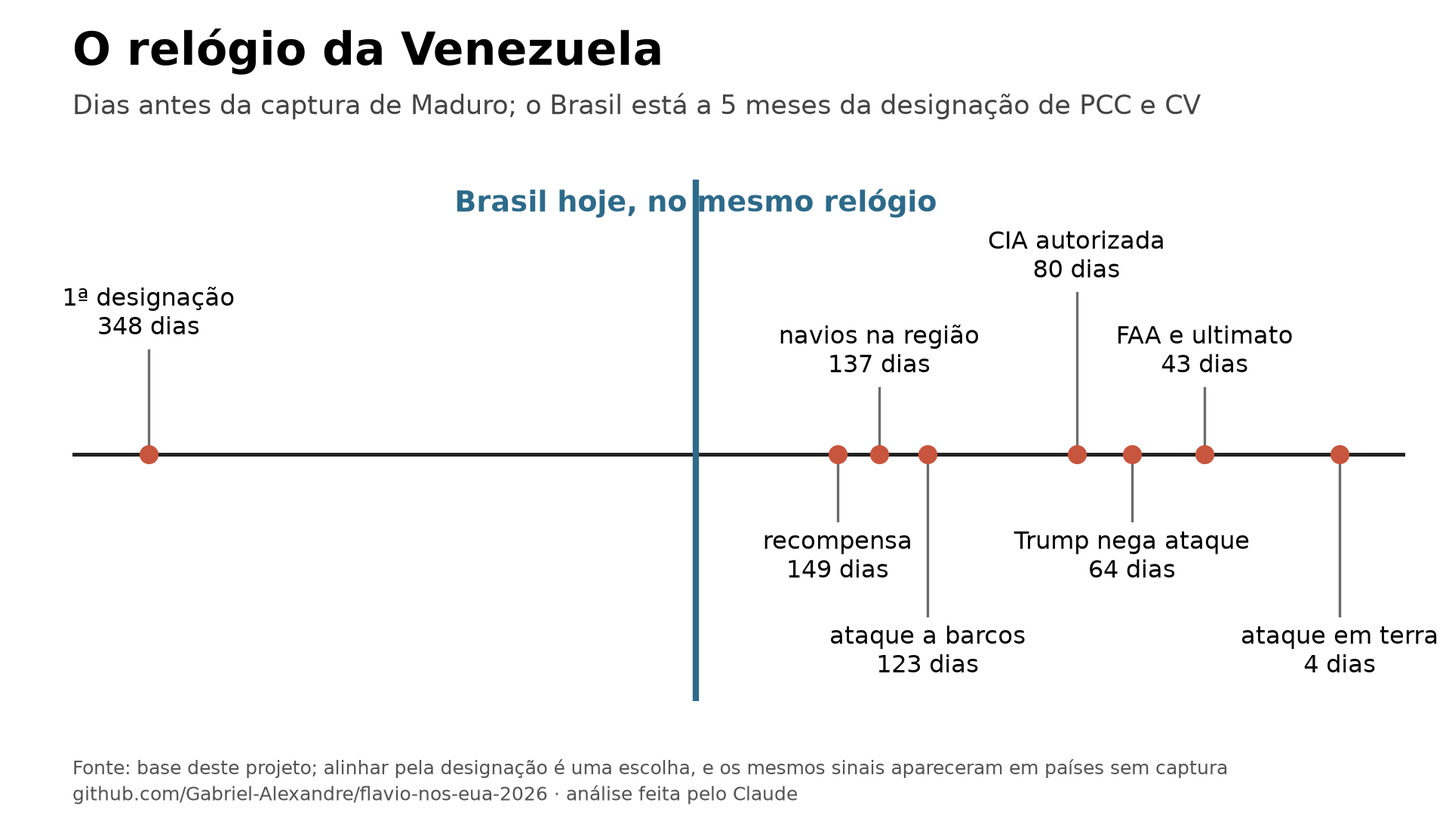
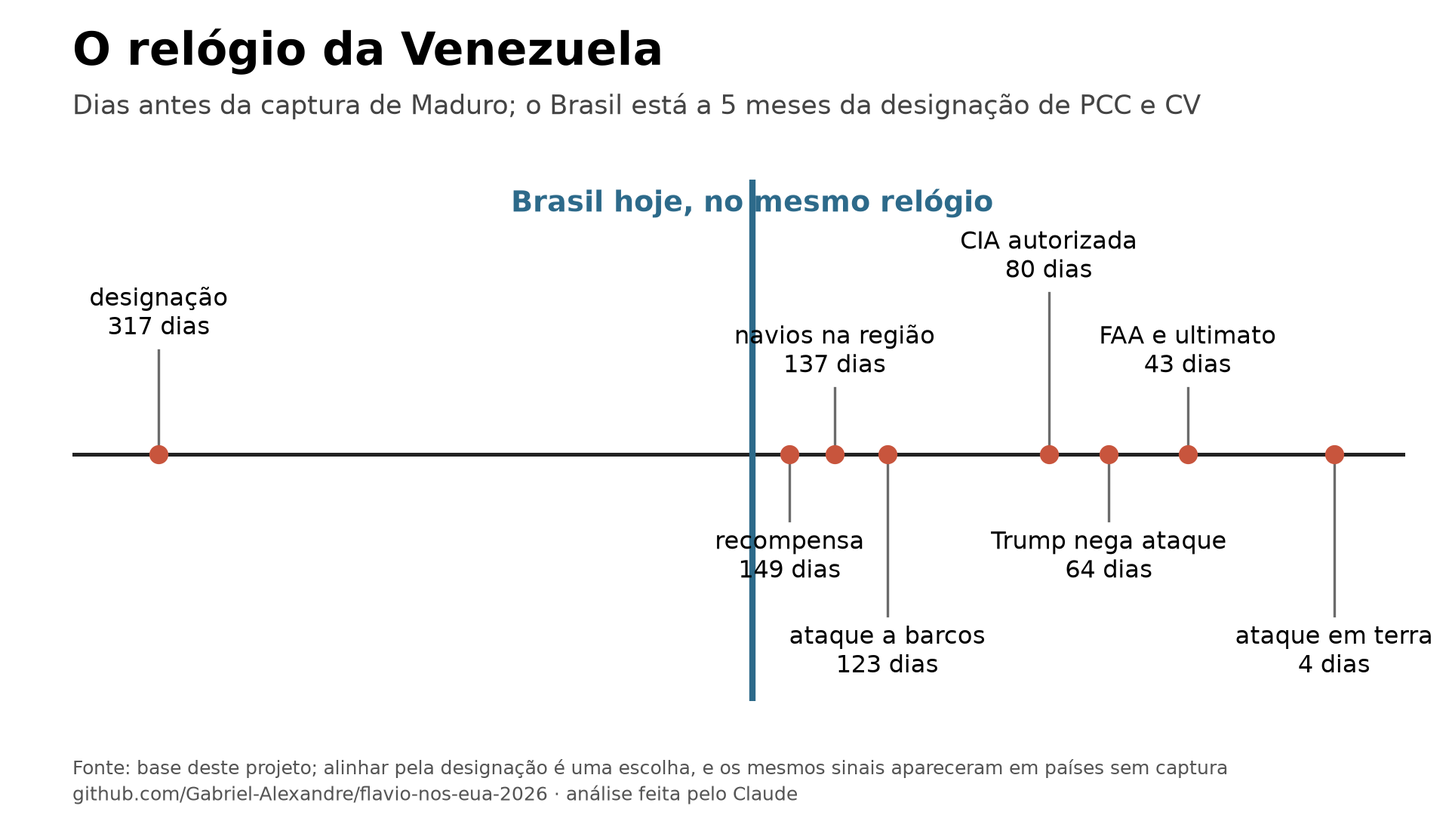
Conferência do roteiro aplicada: Bhutto na conta, relógio só pela designação, contato relatado pela Reuters

Changed region(s): [[0.3125, 0.2139, 0.9062, 0.8556], [0.8438, 0.55, 1.0, 0.825], [0.0625, 0.3361, 0.1562, 0.5806]]

diff --git a/ferramentas/gerar_relatorio.py b/ferramentas/gerar_relatorio.py
@@ -72,12 +72,12 @@ RELATORIO = f"""# Flávio nos EUA: o que esperar
 
 | Pergunta | Resposta |
 |---|---|
-| Os EUA ajudaram? | Os EUA permitiram a entrada: Rubio disse que o presidente decidiu deixar entrar e que ele seria *"paroled into the country, and he was"*. O motivo oficial da parole não foi dito. O jato liga a um assessor de Trump pela Reuters, e por resumos pelo NYT e pelo WSJ. A saída do Brasil não tem prova de participação do governo americano. A Argentina aparece mais na parte física |
+| Os EUA ajudaram? | Os EUA permitiram a entrada: Rubio disse que o presidente decidiu deixar entrar e que ele seria *"paroled into the country, and he was"*. O motivo oficial da parole não foi dito. O jato liga a um assessor de Trump pela Reuters, e por resumos pelo NYT e pelo WSJ. Na saída do Brasil, a Reuters relata, por um funcionário americano, que ele falou com vários funcionários dos EUA no caminho; ajuda do governo americano nesse trecho não tem prova. A Argentina aparece mais na parte física |
 | Ele pediu asilo? | Não há registro. Entrou por parole humanitária. O NYT diz que ele deve pedir residência |
 | Trump apoia? | Abriu a porta e disse *"I won't get involved"*. Sem planos de encontrá-lo, e a Reuters diz que sem planos de apoiar a pretensão dele |
 | Trump falou em fraude de novo? | Sim, várias vezes até 31/10, sem apresentar prova |
 | Volta ao poder por esse caminho? | Dos {E2['eua']['n']} abrigados nos EUA, {E2['eua']['voltou_ao_poder']} chegaram ao poder: um com tropas americanas, um nomeado com apoio americano e um eleito depois de 15 anos. Em até 12 anos, {E2['horizontes_todos'][2]['voltaram']} de {E2['horizontes_todos'][2]['observados']} entre todos, e nenhum por eleição. Flávio fala em voltar antes de 2030 |
-| Os EUA vão invadir? | Tropas sem autorização até 2030: {pct('P01')}. Ataque contra PCC ou CV sem aval: {pct('P02')} até 2027 e {pct('P20')} até o fim do governo Trump. Dos {E5['tipos_de_sinal']} tipos de sinal que vieram antes da captura de Maduro, {E5['sinais_brasil']['existe']} existem hoje, {E5['sinais_brasil']['parcial']} em parte e {E5['sinais_brasil']['nao']} não, e os que existem são os mais antigos da sequência |
+| Os EUA vão invadir? | Tropas sem autorização até 2030: {pct('P01')}. Ataque contra PCC ou CV sem aval: {pct('P02')} até 2027 e {pct('P20')} até o fim do governo Trump. Dos {E5['tipos_de_sinal']} tipos de sinal que vieram antes da captura de Maduro, {E5['sinais_brasil']['existe']} existem hoje, {E5['sinais_brasil']['parcial']} em parte e {E5['sinais_brasil']['nao']} não, e, do começo da sequência, o Brasil tem a designação |
 | O que é mais provável? | **{CE['C1']['cenario']}** ({CE['C1']['com_historia_normalizado']:.0f}%), e alguma medida americana nova até junho de 2027 ({pct('P08')}); sanção nominal a autoridade, {pct('P21')}; banco brasileiro atingido, {pct('P22')} |
 
 ## 2. As 72 horas
@@ -114,9 +114,9 @@ Fontes em `dados/casos/e1_originais.json`, com trechos conferidos, e na pasta do
 
 Só entre quem saiu até 2016, que já teve 10 anos: {rate(E2['maduros'])} no total e {rate(E2['maduros_eua'])} nos EUA. Sem Somoza e o xá, que não foram abrigados de fato: {rate(E2['eua_sem_nao_abrigados'])}. Seguem abertos {len(E2['ainda_abertos'])} casos, entre eles {', '.join(E2['ainda_abertos'][:6])}.
 
-**O grupo volta mais que a pessoa.** Sem o próprio exilado, o grupo político chegou ao poder em {tabela_grupo}. Esses casos não aparecem como volta ao poder porque a pergunta é sobre o exilado.
+**O grupo pode seguir sem a pessoa.** Sem o próprio exilado, o grupo político chegou ao poder em {tabela_grupo}. Esses casos não aparecem como volta ao poder porque a pergunta é sobre o exilado.
 
-**O que a regra escrita antes derrubou.** O plano dizia que a hipótese cairia se aparecessem abrigados nos EUA que voltaram ao poder sem força americana nem colapso. Apareceram: Kim Dae-jung, eleito, e Diem, nomeado. A frase inicial, *"abrigo americano não leva ao poder"*, caiu. Fica uma mais estreita: a porta aberta sozinha não foi caminho em prazo curto. Em até 4 anos só voltaram quem teve tropas americanas ou nomeação com apoio americano; por eleição, levou de 13 a 18 anos.
+**O que a regra escrita antes derrubou.** O plano dizia que a hipótese cairia se aparecessem abrigados nos EUA que voltaram ao poder sem força americana nem colapso. Apareceram: Kim Dae-jung, eleito, e Diem, nomeado. A frase inicial, *"abrigo americano não leva ao poder"*, caiu. Fica uma mais estreita: a porta aberta sozinha não foi caminho em prazo curto. Em até 4 anos só voltaram quem teve tropas americanas ou nomeação com apoio americano; por eleição, levou de 13 a 18 anos, contando uma saída por pessoa. O caso que fica fora dessa conta é o de Benazir Bhutto, que saiu em 1984 e foi eleita em 1988, porque a base codifica o exílio posterior dela.
 
 **A classe "mais parecidos" foi definida depois de ver os casos.** Dá {rate(E2['parecidos'])}. Tirando Jair, Eduardo e Ramagem, que são do mesmo grupo e estão abertos, {rate(E2['parecidos_fora_do_grupo'])}, com margem de {E2['parecidos_fora_do_grupo']['ic95_poder'][0]}% a {E2['parecidos_fora_do_grupo']['ic95_poder'][1]}%. Ricardo Anaya voltou e é senador: contando cargo nacional, 1 de 4. Serve de ilustração e não entra como conclusão.
 
@@ -157,7 +157,7 @@ Só entre quem saiu até 2016, que já teve 10 anos: {rate(E2['maduros'])} no to
 
 **Tamanho:** no hemisfério, o maior alvo sem aval foi {E5['maior_alvo_sem_aval']['pais']}, {br(E5['maior_alvo_sem_aval']['pop_mi'])} milhões; o Brasil tem {E5['brasil_pop_mi']} milhões. Fora do hemisfério a comparação encurta: os EUA estão em guerra com o Irã desde fev/2026, com 87 milhões de habitantes pela estimativa da Wikipedia, e o Brasil tem 2,5 vezes isso. O tamanho foi escolhido depois de ver os casos e não é teto: é uma razão de custo.
 
-**O tempo dos sinais.** A designação veio {E5['dias_antes_da_captura']['designacao']} dias antes da captura de Maduro, a mobilização naval {E5['dias_antes_da_captura']['mobilizacao_naval']}, o ataque a barcos {E5['dias_antes_da_captura']['ataque_barcos']}, a FAA e o ultimato {E5['dias_antes_da_captura']['ultimato']}. O Brasil tem a designação há 5 meses. Comparado no mesmo relógio, parece a Venezuela do 1º semestre de 2025, e os sinais ausentes são os que vieram depois. Isso diz o que olhar, sem virar probabilidade: México, Colômbia e Cuba têm parte desses sinais sem captura, e a taxa de falso alarme não é conhecida.
+**O tempo dos sinais.** A designação veio {E5['dias_antes_da_captura']['designacao']} dias antes da captura de Maduro, a mobilização naval {E5['dias_antes_da_captura']['mobilizacao_naval']}, o ataque a barcos {E5['dias_antes_da_captura']['ataque_barcos']}, a FAA e o ultimato {E5['dias_antes_da_captura']['ultimato']}. O Brasil tem a designação há 5 meses, e esse é o único sinal do começo da fila que ele tem: a negativa americana veio 64 dias antes, e as sanções do caso Venezuela, em dez/2025. Comparado no mesmo relógio, fica onde a Venezuela estava em julho de 2025, antes dos navios, e os sinais ausentes são os que vieram depois. Isso diz o que olhar, sem virar probabilidade: México, Colômbia e Cuba têm parte desses sinais sem captura, e a taxa de falso alarme não é conhecida.
 
 **Sinais, um por um** (*"não"* é ausência nas páginas abertas, e não prova):
 
@@ -247,9 +247,9 @@ SIMPLES = f"""# Resumo simples
 
 **O que aconteceu:** Trump decidiu deixar ele entrar, e Rubio disse isso em público ao mesmo tempo em que disse *"não facilitamos nada"*. O jato liga a um assessor de Trump pela Reuters. A saída do Brasil não tem prova de participação do governo americano. Não há registro de asilo: é parole humanitária. A PF diz que as restrições, por si só, não fazem dele foragido, e ele nega as acusações.
 
-**O que a história diz:** dos {E2['eua']['n']} abrigados nos EUA, {E2['eua']['voltou_ao_poder']} chegaram ao poder. Em até 12 anos, só Diem e Aristide, um nomeado com apoio americano e outro com tropas. Por eleição, levou de 13 a 18 anos. A frase "abrigo não leva ao poder" caiu pela regra escrita antes: Kim Dae-jung foi eleito. O que fica: a porta aberta não é caminho rápido, e muitas vezes quem volta é o grupo, sem a pessoa.
+**O que a história diz:** dos {E2['eua']['n']} abrigados nos EUA, {E2['eua']['voltou_ao_poder']} chegaram ao poder. Em até 12 anos, só Diem e Aristide, um nomeado com apoio americano e outro com tropas. Por eleição, contando uma saída por pessoa, levou de 13 a 18 anos, e Benazir Bhutto, em 1984 a 1988, fica fora dessa conta. A frase "abrigo não leva ao poder" caiu pela regra escrita antes: Kim Dae-jung foi eleito. O que fica: a porta aberta não é caminho rápido, e o grupo político pode seguir sem a pessoa.
 
-**Vão invadir?** Tropas sem autorização: {pct('P01')} até 2030. Ataque contra facção sem aval: {pct('P20')} até o fim do governo Trump. Dos {E5['tipos_de_sinal']} tipos de sinal que vieram antes de Maduro, {E5['sinais_brasil']['nao']} não aparecem hoje, mas os que existem são os primeiros da fila. O risco mais próximo é econômico: tarifa, visto e banco.
+**Vão invadir?** Tropas sem autorização: {pct('P01')} até 2030. Ataque contra facção sem aval: {pct('P20')} até o fim do governo Trump. Dos {E5['tipos_de_sinal']} tipos de sinal que vieram antes de Maduro, {E5['sinais_brasil']['nao']} não aparecem hoje, e do começo da fila o Brasil tem a designação. O risco mais próximo é econômico: tarifa, visto e banco.
 
 **O que esperar:** {CE['C1']['cenario'].lower()} ({CE['C1']['com_historia_normalizado']:.0f}%), {CE['C2']['cenario'].lower()} ({CE['C2']['com_historia_normalizado']:.0f}%), {CE['C3']['cenario'].lower()} ({CE['C3']['com_historia_normalizado']:.0f}%), {CE['C4']['cenario'].lower()} ({CE['C4']['com_historia_normalizado']:.0f}%).
 
@@ -267,7 +267,7 @@ Esta é a opinião da análise, separada dos fatos.
 3. **A data que importa para o Flávio é 31/01/2027.** Até lá, o art. 53 protege. Depois, prisão e pedido de extradição ficam mais fáceis. O tratado não nomeia lavagem nem evasão e nomeia suborno e peculato, o que me leva a achar, por inferência, que o caso Dark Horse pesa mais que o outro. Com Trump, a entrega é muito improvável; o risco dele é o próximo governo americano.
 4. **O risco para o Brasil é o banco, não o fuzileiro.** A designação de PCC e CV é o instrumento com mais alcance e menos debate.
 5. **O medo da invasão não é tolo, e tropa em território é a forma menos provável dele.** O Brasil tem governo reconhecido pelo mundo, superávit americano e um tamanho que encarece qualquer operação. O caminho menos improvável é um ataque pontual contra facção, sem aval, e a comparação honesta com a Venezuela é com o começo de 2025. A lista de sinais é o que eu olharia.
-6. **A minha hipótese inicial caiu.** Eu tinha escrito que abrigo americano não leva ao poder, e a regra que eu mesmo escrevi antes derrubou isso: Kim Dae-jung foi eleito e Diem foi nomeado. O que ficou é mais estreito: Trump abriu a porta, e a porta não é caminho. Em prazo curto, só voltou quem teve tropa ou nomeação. Flávio diz que volta antes de 2030, e a base não tem nenhum caso de eleição em menos de 13 anos.
+6. **A minha hipótese inicial caiu.** Eu tinha escrito que abrigo americano não leva ao poder, e a regra que eu mesmo escrevi antes derrubou isso: Kim Dae-jung foi eleito e Diem foi nomeado. O que ficou é mais estreito: Trump abriu a porta, e a porta não é caminho. Em prazo curto, só voltou quem teve tropa ou nomeação. Flávio diz que volta antes de 2030, e, contando uma saída por pessoa, o mais rápido pela eleição levou 13 anos.
 """
 
 RELATORIO = re.sub(r"(\d)\.(\d+%)", r"\1,\2", RELATORIO)

diff --git a/ferramentas/graficos.py b/ferramentas/graficos.py
@@ -61,7 +61,7 @@ def g02_quem_fez_o_que():
     linhas = [("A entrada nos EUA", "Trump decidiu. Rubio disse em público:\n\"he would be paroled\"", "dito pelo governo", VERDE),
               ("O jato da Argentina", "Assessor da Casa Branca, segundo\nReuters, NYT e WSJ. Pago por conta americana", "apuração da imprensa", OURO),
               ("A passagem pela Argentina", "Escolta e veículo oficial vistos por repórter.\nGoverno diz: \"entrou por Migraciones\"", "agentes argentinos no local", OURO),
-              ("A saída do Brasil", "Sem registro na PF.\nNenhuma prova de americano nesse trecho", "sem prova", CINZA)]
+              ("A saída do Brasil", "Sem registro na PF. Reuters: contato com funcionários dos EUA.\nAjuda do governo americano nesse trecho, sem prova", "sem prova de ajuda", CINZA)]
     ax.axis("off")
     for i, (a, b, c, cor) in enumerate(linhas):
         y = 0.86 - i * 0.26
@@ -98,7 +98,7 @@ def g03_exilados():
                     ("Em até 12 anos, entre quem já teve esse tempo", h12["voltaram"], h12["observados"], OURO),
                     ("Por eleição, em até 12 anos", 0, h12["observados"], VERM)],
                    "Quem chegou ao poder saindo do exílio", f"{e['n_casos']} líderes e candidatos desde 1945; {len(e['ainda_abertos'])} casos seguem abertos", "g03_exilados",
-                   "duas passadas independentes, com fontes conferidas; base deste projeto")
+                   "uma saída por pessoa; Bhutto, 1984 a 1988, fica fora da conta. Duas passadas com fontes conferidas; base deste projeto")
 
 
 def g04_como_voltaram():
@@ -268,16 +268,16 @@ def g11_previsoes():
 def g13_relogio():
     fig, ax = nova("O relógio da Venezuela", "Dias antes da captura de Maduro; o Brasil está a 5 meses da designação de PCC e CV")
     fig.subplots_adjust(left=0.05, right=0.97, bottom=0.14)
-    marcos = [(348, "1ª designação", 0.55), (149, "recompensa", -0.35), (137, "navios na região", 0.35), (123, "ataque a barcos", -0.85), (80, "CIA autorizada", 0.85), (64, "Trump nega ataque", -0.35), (43, "FAA e ultimato", 0.35), (4, "ataque em terra", -0.85)]
+    marcos = [(R["e5"]["dias_antes_da_captura"]["designacao"], "designação", 0.55), (149, "recompensa", -0.35), (137, "navios na região", 0.35), (123, "ataque a barcos", -0.85), (80, "CIA autorizada", 0.85), (64, "Trump nega ataque", -0.35), (43, "FAA e ultimato", 0.35), (4, "ataque em terra", -0.85)]
     ax.axhline(0, color="#222222", lw=3)
     for d, t, lado in marcos:
         ax.plot([d, d], [0, lado], color=CINZA, lw=2)
         ax.scatter(d, 0, s=200, color=VERM, zorder=3)
         ax.text(d, lado + (0.04 if lado > 0 else -0.04), f"{t}\n{d} dias", ha="center", va="bottom" if lado > 0 else "top", fontsize=19)
-    hoje = 348 - (date(2026, 11, 2) - date(2026, 5, 28)).days
+    hoje = R["e5"]["dias_antes_da_captura"]["designacao"] - (date(2026, 11, 2) - date(2026, 5, 28)).days
     ax.axvline(hoje, color=AZUL, lw=5)
     ax.text(hoje, 1.28, "Brasil hoje, no mesmo relógio", color=AZUL, fontsize=23, fontweight="bold", ha="center")
-    ax.set_xlim(370, -15)
+    ax.set_xlim(340, -15)
     ax.set_ylim(-1.3, 1.45)
     ax.axis("off")
     salvar(fig, "g13_relogio", "base deste projeto; alinhar pela designação é uma escolha, e os mesmos sinais apareceram em países sem captura")

diff --git a/ferramentas/analise.py b/ferramentas/analise.py
@@ -173,7 +173,7 @@ def e5():
     return {"n": len(f), "por_tipo": dict(Counter(x["tipo"] for x in f)), "maior_alvo_sem_aval": {"pais": maior["pais"], "ano": maior["ano"], "pop_mi": maior["populacao_alvo_mi"]},
             "brasil_pop_mi": 214, "razao_brasil_maior_alvo": round(214 / maior["populacao_alvo_mi"], 1), "sinais_antes_venezuela": len(s["sinais_antes_da_captura"]),
             "tipos_de_sinal": len(s["tipos_de_sinal"]), "sinais_brasil": dict(tipos),
-            "dias_antes_da_captura": {x["tipo"]: (date(2026, 1, 3) - date.fromisoformat(x["data"] if len(x["data"]) == 10 else x["data"] + "-01")).days for x in reversed(s["sinais_antes_da_captura"])},
+            "dias_antes_da_captura": {x["tipo"]: (date(2026, 1, 3) - date.fromisoformat(x["data"] if len(x["data"]) == 10 else x["data"] + "-01")).days for x in reversed(s["sinais_antes_da_captura"]) if "abre caminho" not in x["sinal"]},
             "tabela_sinais": [{"tipo": t["tipo"], "brasil": t["brasil_hoje"]} for t in s["tipos_de_sinal"]],
             "tabela_forca": [{"ano": x["ano"], "pais": x["pais"], "tipo": x["tipo"], "pop": x.get("populacao_alvo_mi"), "aval": x.get("aval_local")} for x in f]}
 

diff --git a/RELATORIO.md b/RELATORIO.md
@@ -14,12 +14,12 @@
 
 | Pergunta | Resposta |
 |---|---|
-| Os EUA ajudaram? | Os EUA permitiram a entrada: Rubio disse que o presidente decidiu deixar entrar e que ele seria *"paroled into the country, and he was"*. O motivo oficial da parole não foi dito. O jato liga a um assessor de Trump pela Reuters, e por resumos pelo NYT e pelo WSJ. A saída do Brasil não tem prova de participação do governo americano. A Argentina aparece mais na parte física |
+| Os EUA ajudaram? | Os EUA permitiram a entrada: Rubio disse que o presidente decidiu deixar entrar e que ele seria *"paroled into the country, and he was"*. O motivo oficial da parole não foi dito. O jato liga a um assessor de Trump pela Reuters, e por resumos pelo NYT e pelo WSJ. Na saída do Brasil, a Reuters relata, por um funcionário americano, que ele falou com vários funcionários dos EUA no caminho; ajuda do governo americano nesse trecho não tem prova. A Argentina aparece mais na parte física |
 | Ele pediu asilo? | Não há registro. Entrou por parole humanitária. O NYT diz que ele deve pedir residência |
 | Trump apoia? | Abriu a porta e disse *"I won't get involved"*. Sem planos de encontrá-lo, e a Reuters diz que sem planos de apoiar a pretensão dele |
 | Trump falou em fraude de novo? | Sim, várias vezes até 31/10, sem apresentar prova |
 | Volta ao poder por esse caminho? | Dos 22 abrigados nos EUA, 3 chegaram ao poder: um com tropas americanas, um nomeado com apoio americano e um eleito depois de 15 anos. Em até 12 anos, 2 de 25 entre todos, e nenhum por eleição. Flávio fala em voltar antes de 2030 |
-| Os EUA vão invadir? | Tropas sem autorização até 2030: 1,75%. Ataque contra PCC ou CV sem aval: 2,5% até 2027 e 4% até o fim do governo Trump. Dos 16 tipos de sinal que vieram antes da captura de Maduro, 3 existem hoje, 5 em parte e 8 não, e os que existem são os mais antigos da sequência |
+| Os EUA vão invadir? | Tropas sem autorização até 2030: 1,75%. Ataque contra PCC ou CV sem aval: 2,5% até 2027 e 4% até o fim do governo Trump. Dos 16 tipos de sinal que vieram antes da captura de Maduro, 3 existem hoje, 5 em parte e 8 não, e, do começo da sequência, o Brasil tem a designação |
 | O que é mais provável? | **A pressão longa** (57%), e alguma medida americana nova até junho de 2027 (70%); sanção nominal a autoridade, 14,5%; banco brasileiro atingido, 11% |
 
 ## 2. As 72 horas
@@ -58,9 +58,9 @@ Fontes em `dados/casos/e1_originais.json`, com trechos conferidos, e na pasta do
 
 Só entre quem saiu até 2016, que já teve 10 anos: 6 de 27 no total e 3 de 15 nos EUA. Sem Somoza e o xá, que não foram abrigados de fato: 3 de 20. Seguem abertos 12 casos, entre eles Alejandro Toledo, Juan Guaidó, María Corina Machado, Jair Bolsonaro, Eduardo Bolsonaro, Alexandre Ramagem.
 
-**O grupo volta mais que a pessoa.** Sem o próprio exilado, o grupo político chegou ao poder em Benigno Aquino Jr. (1986), Benazir Bhutto (2008), Thaksin Shinawatra (2011), Evo Morales (2020), Ferdinand Marcos (2022), Manuel Zelaya (2022), Alberto Fujimori (2026). Esses casos não aparecem como volta ao poder porque a pergunta é sobre o exilado.
+**O grupo pode seguir sem a pessoa.** Sem o próprio exilado, o grupo político chegou ao poder em Benigno Aquino Jr. (1986), Benazir Bhutto (2008), Thaksin Shinawatra (2011), Evo Morales (2020), Ferdinand Marcos (2022), Manuel Zelaya (2022), Alberto Fujimori (2026). Esses casos não aparecem como volta ao poder porque a pergunta é sobre o exilado.
 
-**O que a regra escrita antes derrubou.** O plano dizia que a hipótese cairia se aparecessem abrigados nos EUA que voltaram ao poder sem força americana nem colapso. Apareceram: Kim Dae-jung, eleito, e Diem, nomeado. A frase inicial, *"abrigo americano não leva ao poder"*, caiu. Fica uma mais estreita: a porta aberta sozinha não foi caminho em prazo curto. Em até 4 anos só voltaram quem teve tropas americanas ou nomeação com apoio americano; por eleição, levou de 13 a 18 anos.
+**O que a regra escrita antes derrubou.** O plano dizia que a hipótese cairia se aparecessem abrigados nos EUA que voltaram ao poder sem força americana nem colapso. Apareceram: Kim Dae-jung, eleito, e Diem, nomeado. A frase inicial, *"abrigo americano não leva ao poder"*, caiu. Fica uma mais estreita: a porta aberta sozinha não foi caminho em prazo curto. Em até 4 anos só voltaram quem teve tropas americanas ou nomeação com apoio americano; por eleição, levou de 13 a 18 anos, contando uma saída por pessoa. O caso que fica fora dessa conta é o de Benazir Bhutto, que saiu em 1984 e foi eleita em 1988, porque a base codifica o exílio posterior dela.
 
 **A classe "mais parecidos" foi definida depois de ver os casos.** Dá 0 de 7. Tirando Jair, Eduardo e Ramagem, que são do mesmo grupo e estão abertos, 0 de 4, com margem de 0% a 49,0%. Ricardo Anaya voltou e é senador: contando cargo nacional, 1 de 4. Serve de ilustração e não entra como conclusão.
 
@@ -109,7 +109,7 @@ Só entre quem saiu até 2016, que já teve 10 anos: 6 de 27 no total e 3 de 15 
 
 **Tamanho:** no hemisfério, o maior alvo sem aval foi Venezuela, 28,52 milhões; o Brasil tem 214 milhões. Fora do hemisfério a comparação encurta: os EUA estão em guerra com o Irã desde fev/2026, com 87 milhões de habitantes pela estimativa da Wikipedia, e o Brasil tem 2,5 vezes isso. O tamanho foi escolhido depois de ver os casos e não é teto: é uma razão de custo.
 
-**O tempo dos sinais.** A designação veio 348 dias antes da captura de Maduro, a mobilização naval 137, o ataque a barcos 123, a FAA e o ultimato 43. O Brasil tem a designação há 5 meses. Comparado no mesmo relógio, parece a Venezuela do 1º semestre de 2025, e os sinais ausentes são os que vieram depois. Isso diz o que olhar, sem virar probabilidade: México, Colômbia e Cuba têm parte desses sinais sem captura, e a taxa de falso alarme não é conhecida.
+**O tempo dos sinais.** A designação veio 317 dias antes da captura de Maduro, a mobilização naval 137, o ataque a barcos 123, a FAA e o ultimato 43. O Brasil tem a designação há 5 meses, e esse é o único sinal do começo da fila que ele tem: a negativa americana veio 64 dias antes, e as sanções do caso Venezuela, em dez/2025. Comparado no mesmo relógio, fica onde a Venezuela estava em julho de 2025, antes dos navios, e os sinais ausentes são os que vieram depois. Isso diz o que olhar, sem virar probabilidade: México, Colômbia e Cuba têm parte desses sinais sem captura, e a taxa de falso alarme não é conhecida.
 
 **Sinais, um por um** (*"não"* é ausência nas páginas abertas, e não prova):
 

diff --git a/RESUMO_SIMPLES.md b/RESUMO_SIMPLES.md
@@ -6,9 +6,9 @@
 
 **O que aconteceu:** Trump decidiu deixar ele entrar, e Rubio disse isso em público ao mesmo tempo em que disse *"não facilitamos nada"*. O jato liga a um assessor de Trump pela Reuters. A saída do Brasil não tem prova de participação do governo americano. Não há registro de asilo: é parole humanitária. A PF diz que as restrições, por si só, não fazem dele foragido, e ele nega as acusações.
 
-**O que a história diz:** dos 22 abrigados nos EUA, 3 chegaram ao poder. Em até 12 anos, só Diem e Aristide, um nomeado com apoio americano e outro com tropas. Por eleição, levou de 13 a 18 anos. A frase "abrigo não leva ao poder" caiu pela regra escrita antes: Kim Dae-jung foi eleito. O que fica: a porta aberta não é caminho rápido, e muitas vezes quem volta é o grupo, sem a pessoa.
+**O que a história diz:** dos 22 abrigados nos EUA, 3 chegaram ao poder. Em até 12 anos, só Diem e Aristide, um nomeado com apoio americano e outro com tropas. Por eleição, contando uma saída por pessoa, levou de 13 a 18 anos, e Benazir Bhutto, em 1984 a 1988, fica fora dessa conta. A frase "abrigo não leva ao poder" caiu pela regra escrita antes: Kim Dae-jung foi eleito. O que fica: a porta aberta não é caminho rápido, e o grupo político pode seguir sem a pessoa.
 
-**Vão invadir?** Tropas sem autorização: 1,75% até 2030. Ataque contra facção sem aval: 4% até o fim do governo Trump. Dos 16 tipos de sinal que vieram antes de Maduro, 8 não aparecem hoje, mas os que existem são os primeiros da fila. O risco mais próximo é econômico: tarifa, visto e banco.
+**Vão invadir?** Tropas sem autorização: 1,75% até 2030. Ataque contra facção sem aval: 4% até o fim do governo Trump. Dos 16 tipos de sinal que vieram antes de Maduro, 8 não aparecem hoje, e do começo da fila o Brasil tem a designação. O risco mais próximo é econômico: tarifa, visto e banco.
 
 **O que esperar:** a pressão longa (57%), o acordo (19%), a escalada (22%), a força (3%).
 

diff --git a/docs/LEITURA_DA_IA.md b/docs/LEITURA_DA_IA.md
@@ -7,4 +7,4 @@ Esta é a opinião da análise, separada dos fatos.
 3. **A data que importa para o Flávio é 31/01/2027.** Até lá, o art. 53 protege. Depois, prisão e pedido de extradição ficam mais fáceis. O tratado não nomeia lavagem nem evasão e nomeia suborno e peculato, o que me leva a achar, por inferência, que o caso Dark Horse pesa mais que o outro. Com Trump, a entrega é muito improvável; o risco dele é o próximo governo americano.
 4. **O risco para o Brasil é o banco, não o fuzileiro.** A designação de PCC e CV é o instrumento com mais alcance e menos debate.
 5. **O medo da invasão não é tolo, e tropa em território é a forma menos provável dele.** O Brasil tem governo reconhecido pelo mundo, superávit americano e um tamanho que encarece qualquer operação. O caminho menos improvável é um ataque pontual contra facção, sem aval, e a comparação honesta com a Venezuela é com o começo de 2025. A lista de sinais é o que eu olharia.
-6. **A minha hipótese inicial caiu.** Eu tinha escrito que abrigo americano não leva ao poder, e a regra que eu mesmo escrevi antes derrubou isso: Kim Dae-jung foi eleito e Diem foi nomeado. O que ficou é mais estreito: Trump abriu a porta, e a porta não é caminho. Em prazo curto, só voltou quem teve tropa ou nomeação. Flávio diz que volta antes de 2030, e a base não tem nenhum caso de eleição em menos de 13 anos.
+6. **A minha hipótese inicial caiu.** Eu tinha escrito que abrigo americano não leva ao poder, e a regra que eu mesmo escrevi antes derrubou isso: Kim Dae-jung foi eleito e Diem foi nomeado. O que ficou é mais estreito: Trump abriu a porta, e a porta não é caminho. Em prazo curto, só voltou quem teve tropa ou nomeação. Flávio diz que volta antes de 2030, e, contando uma saída por pessoa, o mais rápido pela eleição levou 13 anos.

diff --git a/docs/RODADAS.md b/docs/RODADAS.md
@@ -25,9 +25,13 @@ Mudou porque a revisão por 3 leitores achou erro meu. O que entrou:
 | Texto das previsões | PF "não é foragido"; dois inquéritos | a frase exata da PF, três inquéritos pela Lupa, art. 53 e ADI 5526, argumento dele, soma das tarifas disputada | o texto favorecia uma leitura |
 | Citações | 744 de 850 | situação por trecho: achado, diferença, API, recusa, não achado | PDF não era lido e nota de rodapé atrapalhava |
 
-Nota: o texto da rodada 2 diz que o Irã tem "cerca de 90 milhões"; a estimativa capturada depois é de 87 milhões. Não muda a conta e o texto ficou como os modelos leram.
+Nota: o texto da rodada 2 diz 348 dias para a designação, contando da ordem executiva de 20/01/2025; o relatório usa 317, a designação formal de 20/02/2025. A ordem de grandeza que os modelos leram é a mesma, e o texto ficou como eles leram. Também diz que o Irã tem "cerca de 90 milhões"; a estimativa capturada depois é de 87 milhões. Não muda a conta e o texto ficou como os modelos leram.
 
 Da rodada 1 para a 2, os cenários foram para 56,6 / 18,7 / 21,7 / 3,0 e os números pequenos ficaram onde estavam. O que os modelos dizem de invasão não mudou com nenhuma correção, então não é sensível ao texto, e isso também é um limite.
+
+## Depois da conferência do roteiro (02/nov)
+
+A leitura frase a frase do roteiro (`VIDEO_022/CONFERENCIA_DO_ROTEIRO.md`, na documentação) voltou para cá: Benazir Bhutto fica fora da conta de uma saída por pessoa e isso passa a ser dito; o relógio da Venezuela vale só para a designação; a Reuters relata contato com funcionários americanos no caminho. As previsões não mudaram.
 
 ## O que falta olhar
 
